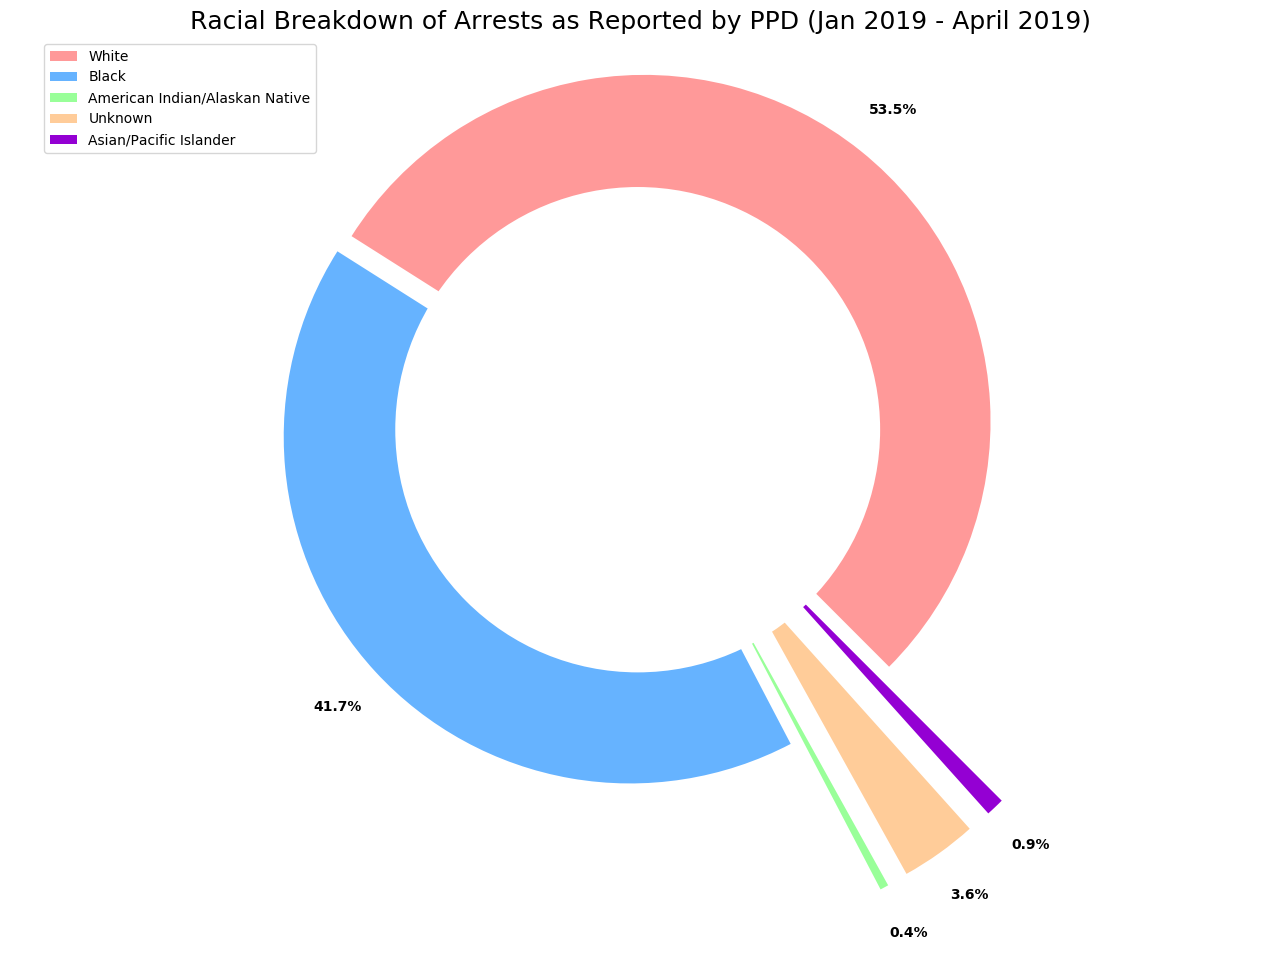
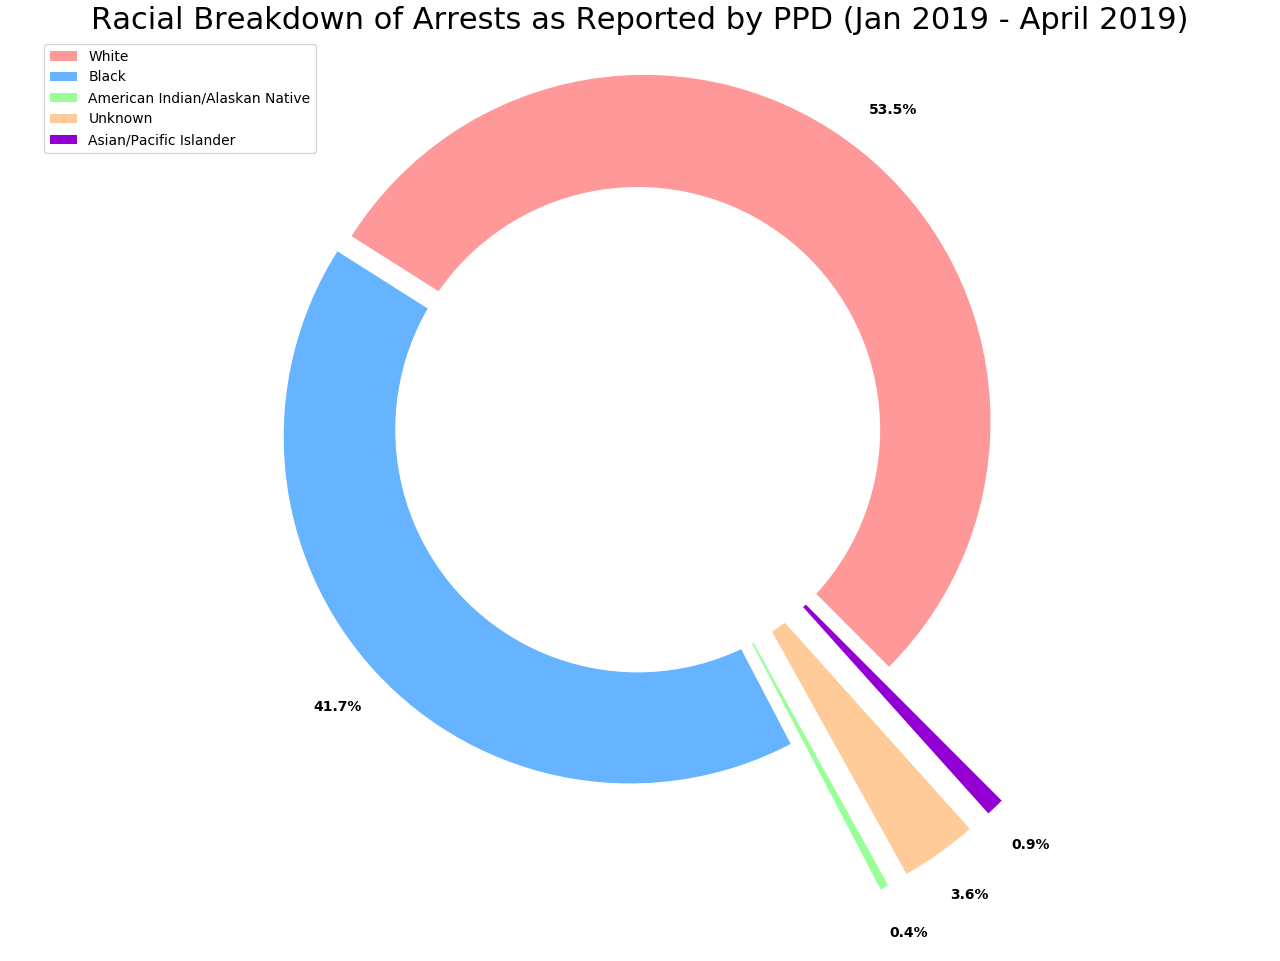
larger title size!

Changed region(s): [[0.0625, 0.0, 0.9375, 0.0312]]

diff --git a/visualizations/race_per_officer.py b/visualizations/race_per_officer.py
@@ -79,6 +79,6 @@ plt.bar(x_pos, unknown_size, width = 0.8, label='Unknown', color=colors[4], bott
 plt.xticks(x_pos, labels)
 plt.xlabel("Officer # (Names Redacted)", fontdict = {'fontsize' : 12})
 plt.ylabel("Total Arrests", fontdict = {'fontsize' : 12})
-plt.title("Racial Breakdown of Individual Arrests by Officer (Jan 2019 - April 2019)", fontdict = {'fontsize' : 18})
+plt.title("Racial Breakdown of Individual Arrests by Officer (Jan 2019 - April 2019)", fontdict = {'fontsize' : 24})
 plt.legend(races, loc='best')
 plt.show()

diff --git a/visualizations/ethnicity_over_arrests.py b/visualizations/ethnicity_over_arrests.py
@@ -46,5 +46,5 @@ for autotext in autotexts:
         autotext.set_weight('bold')
 ax1.axis('equal')
 plt.tight_layout()
-plt.title('Ethnic Breakdown of Arrests as Reported by PPD (Jan 2019 - April 2019)', fontdict = {'fontsize' : 18})
+plt.title('Ethnic Breakdown of Arrests as Reported by PPD (Jan 2019 - April 2019)', fontdict = {'fontsize' : 24})
 plt.show()

diff --git a/visualizations/race_over_arrests.py b/visualizations/race_over_arrests.py
@@ -52,5 +52,5 @@ for autotext in autotexts:
         autotext.set_weight('bold')
 ax1.axis('equal')
 plt.tight_layout()
-plt.title('Racial Breakdown of Arrests as Reported by PPD (Jan 2019 - April 2019)', fontdict = {'fontsize' : 18})
+plt.title('Racial Breakdown of Arrests as Reported by PPD (Jan 2019 - April 2019)', fontdict = {'fontsize' : 22})
 plt.show()
